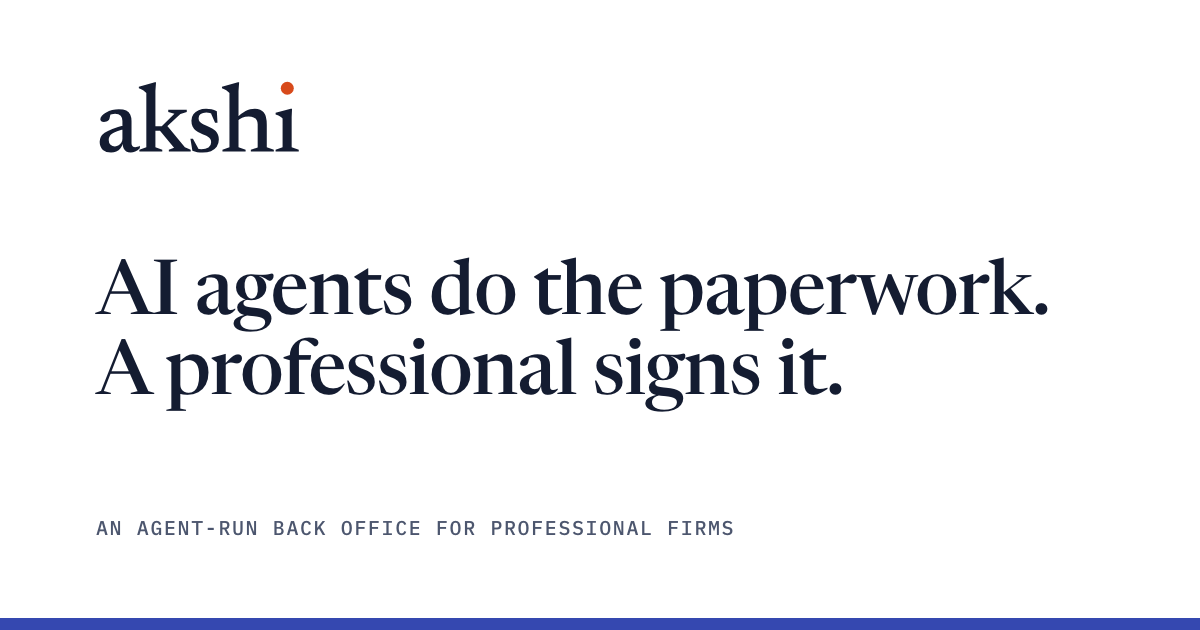
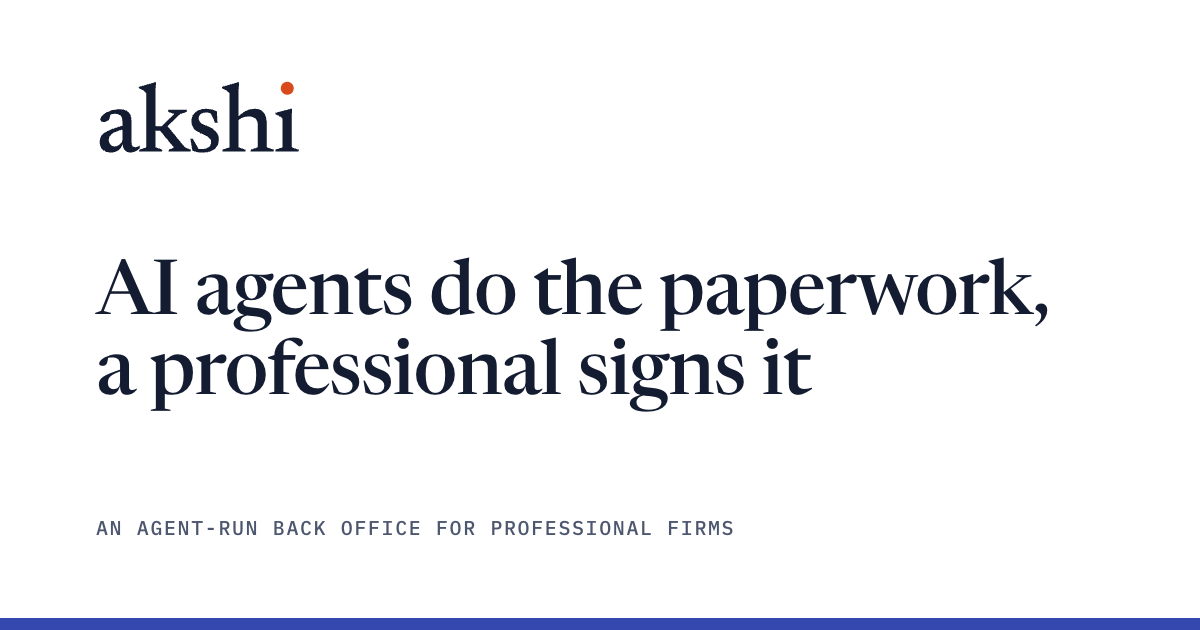
Move the share image source here and render it with the new headline

Changed region(s): [[0.0617, 0.5127, 0.7092, 0.6635], [0.8633, 0.4825, 0.8942, 0.5127]]

diff --git a/design/og-image.html b/design/og-image.html
@@ -1,0 +1,7 @@
+<!doctype html><html><head><meta charset="utf-8"><link rel="stylesheet" href="../_site/assets/css/main.css">
+<style>html,body{margin:0;width:1200px;height:630px;background:#fff}
+.og{box-sizing:border-box;width:1200px;height:630px;padding:80px 96px;display:flex;flex-direction:column;justify-content:space-between;border-bottom:12px solid #3548B0}
+.og img{height:76px;width:auto;align-self:flex-start}
+.og h1{font:500 76px/1.05 "Newsreader",serif;letter-spacing:-.015em;color:#141C31;margin:0;max-width:960px}
+.og p{font:500 20px/1 "IBM Plex Mono",monospace;letter-spacing:.08em;color:#4C566E;margin:0;text-transform:uppercase}</style></head>
+<body><div class="og"><img src="../assets/img/logo.svg" alt=""><h1>AI agents do the paperwork, a professional signs it</h1><p>An agent-run back office for professional firms</p></div></body></html>

diff --git a/README.md b/README.md
@@ -50,3 +50,18 @@ uv run --with playwright==1.55.0 python tests/browser_check.py http://127.0.0.1:
 - Add or remove a workflow in `_data/workflows.yml`; counts on every page follow.
 - Pages state products and workflows without "coming soon" or status labels.
 - Illustrations in the hero cards say they are illustrative and use no client data.
+
+## Share image
+
+`og-image.png` (1200x630) is rendered from `design/og-image.html`, which uses the built stylesheet. When the home headline changes, edit that file to match, build, and render it with light mode forced so the logo keeps its dark ink:
+
+```sh
+bundle exec jekyll build
+"/Applications/Google Chrome.app/Contents/MacOS/Google Chrome" --headless=new --user-data-dir="$(mktemp -d)" \
+  --hide-scrollbars --force-device-scale-factor=1 --blink-settings=preferredColorScheme=1 \
+  --window-size=1200,630 --screenshot="$PWD/og-image.png" "file://$PWD/design/og-image.html"
+```
+
+## Fonts
+
+Newsreader and IBM Plex are used under the SIL Open Font License 1.1; the licence texts are in `assets/fonts/`.
